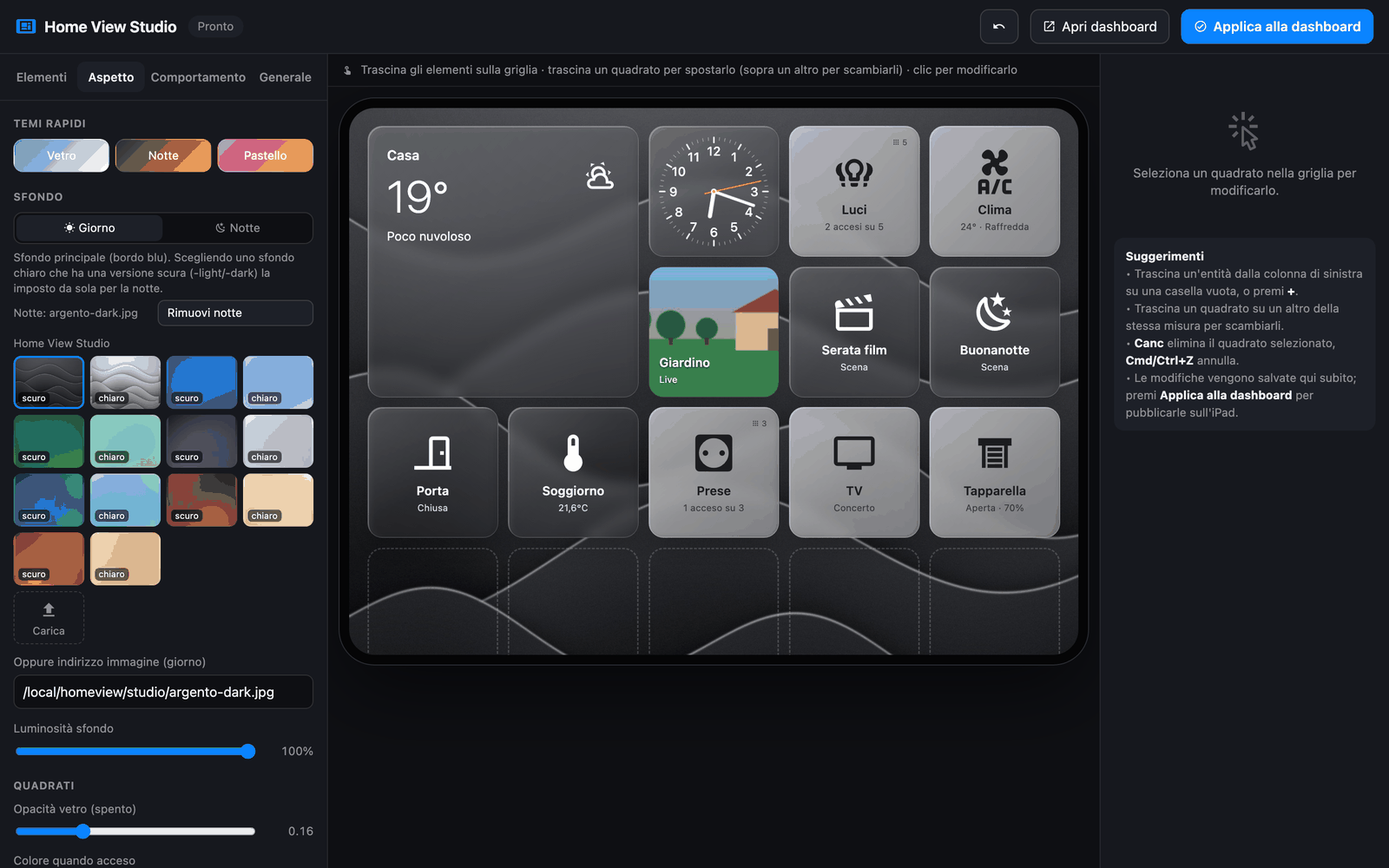
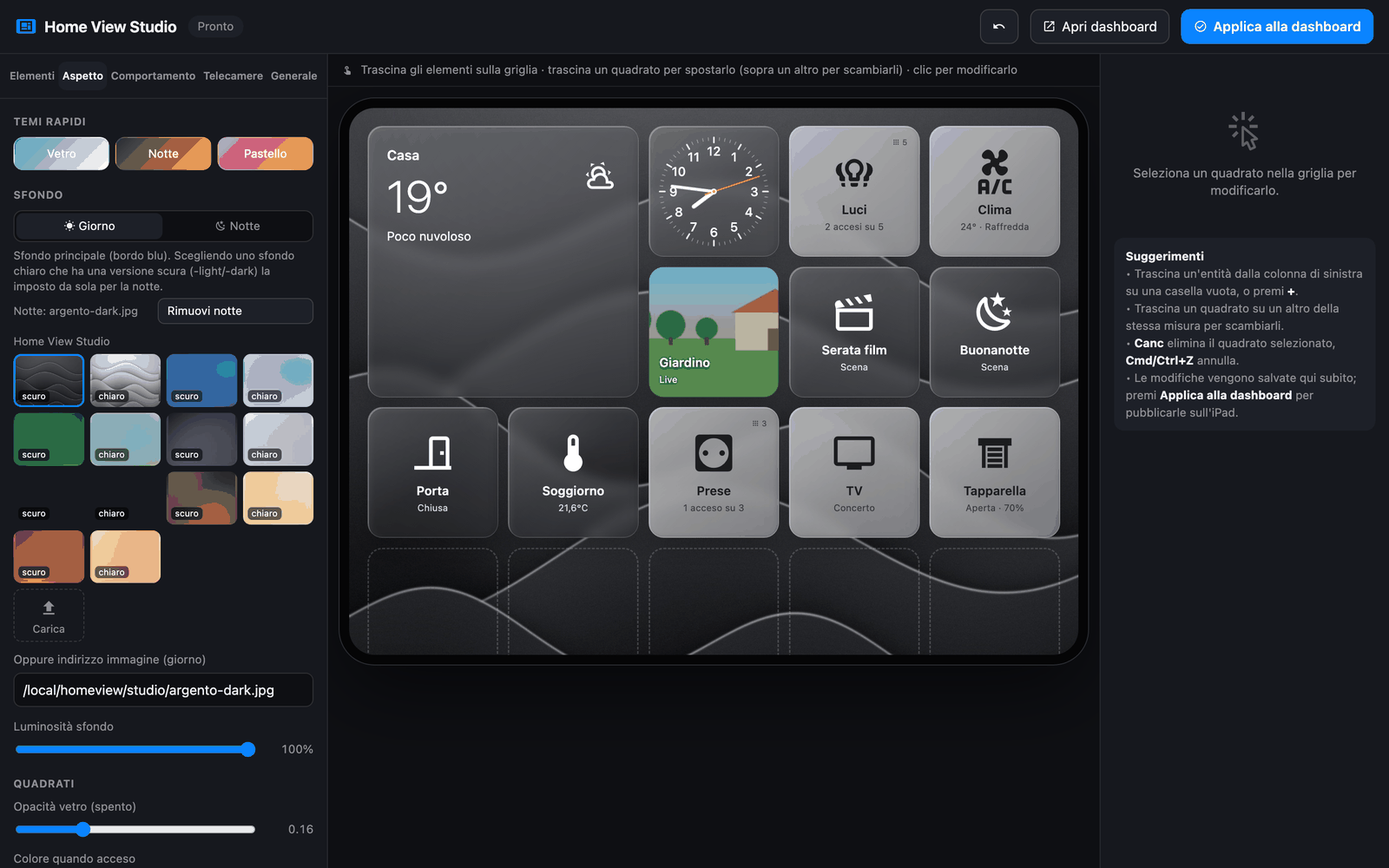
Scheda Telecamere nell'editor (1.7.0)

diff --git a/homeview_studio/app/www/index.html b/homeview_studio/app/www/index.html
@@ -33,7 +33,11 @@ header h1 i{font-size:22px;color:var(--acc)}
 aside{background:var(--panel);border-right:1px solid var(--line);display:flex;flex-direction:column;min-height:0}
 aside.right{border-right:0;border-left:1px solid var(--line)}
 .tabs{display:flex;gap:2px;padding:8px;border-bottom:1px solid var(--line)}
-.tab{flex:1;border:0;background:transparent;padding:7px 4px;border-radius:8px;cursor:pointer;color:var(--mut);font-size:12.5px;font-weight:550}
+.tab{flex:1 1 auto;border:0;background:transparent;padding:7px 3px;border-radius:8px;cursor:pointer;color:var(--mut);font-size:11px;font-weight:600;white-space:nowrap;letter-spacing:-.1px}
+.tabs{gap:0!important;padding:8px 6px!important}
+.main.nocam-insp{grid-template-columns:340px 1fr 0}
+.main.nocam-insp .right{display:none}
+.tabs{flex-wrap:wrap}
 .tab.on{background:var(--panel2);color:var(--txt)}
 .scroll{overflow:auto;padding:12px 14px 30px;flex:1;min-height:0}
 h3{font-size:11px;letter-spacing:.6px;text-transform:uppercase;color:var(--mut);margin:18px 0 8px;font-weight:650}
@@ -171,6 +175,7 @@ input[type=color]{width:36px;height:30px;padding:0;border:1px solid var(--line2)
         <button class="tab on" data-tab="items">Elementi</button>
         <button class="tab" data-tab="look">Aspetto</button>
         <button class="tab" data-tab="behavior">Comportamento</button>
+        <button class="tab" data-tab="cams">Telecamere</button>
         <button class="tab" data-tab="general">Generale</button>
       </div>
       <div class="scroll" id="panel"></div>
@@ -427,7 +432,38 @@ function tileHTML(t, i) {
   return {cls: (on ? 'on' : '') + (!e || e.state === 'unavailable' ? ' dim' : ''),
     html:`<i class="mdi mdi-${esc(icon)} ic" ${spin}></i><div class="nm" data-raw>${esc(t.name || (e ? e.name : t.entity))}</div>${label ? `<div class="lb">${esc(label)}</div>` : ''}`};
 }
+function camItems() {
+  const cc = L.cameras || (L.cameras = {});
+  if (!cc.items || !cc.items.length) cc.items = (L.sources.cameras || []).filter(Boolean).map(id => ({entity: id}));
+  return cc.items;
+}
+function renderCamBoard() {
+  const b = $('#board'), cc = L.cameras, items = camItems().filter(x => x.entity);
+  const W = $('#ipad').clientWidth || 1000, k = W / 1180, gap = (cc.gap ?? 12) * k, r = (cc.radius ?? 22) * k;
+  const n = items.length, H = $('#ipad').clientHeight || W * 0.75, pad = 14 * k;
+  let colsCss = '1fr', cells = [['c0']], rows = 1;
+  if (n > 1 && cc.layout === 'featured') {
+    const side = n - 1, sc = side <= 4 ? 1 : 2; rows = Math.ceil(side / sc); colsCss = '2fr ' + Array(sc).fill('1fr').join(' ');
+    let kk = 1; cells = []; for (let i = 0; i < rows; i++) { const row = ['c0']; for (let j = 0; j < sc; j++) { row.push(kk < n ? 'c' + kk : '.'); kk++; } cells.push(row); }
+  } else if (n > 1) {
+    const cols = Math.max(1, Math.min(+cc.columns || (n <= 4 ? 2 : 3), n)); rows = Math.ceil(n / cols); colsCss = `repeat(${cols}, minmax(0,1fr))`;
+    const flat = items.map((_, i) => 'c' + i).concat(Array(rows * cols - n).fill('.')); cells = []; for (let i = 0; i < rows; i++) cells.push(flat.slice(i * cols, (i + 1) * cols));
+  }
+  const rowH = (H - pad * 2 - gap * (rows - 1)) / rows;
+  Object.assign(b.style, {gridTemplateColumns: colsCss, gridTemplateAreas: cells.map(rw => '"' + rw.join(' ') + '"').join(' '), gridAutoRows: rowH + 'px', gap: gap + 'px', padding: pad + 'px', justifyContent: 'stretch', alignContent: 'center'});
+  b.innerHTML = n ? items.map((it, i) => {
+    const e = EM[it.entity], name = it.name || (e ? e.name : it.entity);
+    const featured = cc.layout === 'featured' && n > 1;
+    const sz = featured || n === 1 ? 'width:100%;height:100%' : `height:100%;max-width:100%;aspect-ratio:16/9;justify-self:center`;
+    return `<div style="grid-area:c${i};${sz};border-radius:${r}px;overflow:hidden;position:relative;background:#000">
+      ${e && e.picture ? `<img src="${esc(e.picture)}" style="width:100%;height:100%;object-fit:${it.fit || 'cover'};display:block" onerror="this.remove()">` : ''}
+      ${cc.show_names !== false ? `<div data-raw style="position:absolute;left:0;right:0;bottom:0;padding:${18 * k}px ${12 * k}px ${9 * k}px;font-weight:600;font-size:${16 * k}px;color:#fff;background:linear-gradient(to top,rgba(0,0,0,.55),transparent)">${esc(name)}</div>` : ''}</div>`;
+  }).join('') : '<div class="empty" style="grid-column:1/-1;color:#fff">Nessuna telecamera selezionata</div>';
+}
 function renderBoard() {
+  document.querySelector('.main').classList.toggle('nocam-insp', tab === 'cams');
+  if (tab === 'cams') { $('#board').style.gridTemplateAreas = ''; renderCamBoard(); const th0 = L.theme; $('#bgimg').style.backgroundImage = th0.background ? `url("${th0.background}")` : 'none'; return; }
+  $('#board').style.gridTemplateAreas = ''; $('#board').style.alignContent = 'start';
   const b = $('#board'), th = L.theme, cols = L.grid.columns;
   $('#bgimg').style.backgroundImage = th.background ? `url("${th.background}")` : 'none';
   $('#bgimg').style.opacity = (th.background_opacity ?? 100) / 100;
@@ -622,7 +658,7 @@ function renderInsp() {
 
 // ---------------------------------------------------------------- left panel
 document.querySelectorAll('.tab').forEach(b => b.onclick = () => {
-  document.querySelectorAll('.tab').forEach(x => x.classList.toggle('on', x === b)); tab = b.dataset.tab; renderPanel();
+  document.querySelectorAll('.tab').forEach(x => x.classList.toggle('on', x === b)); tab = b.dataset.tab; renderPanel(); renderBoard(); renderInsp();
 });
 function sw(path, title, sub) {
   const v = path.split('.').reduce((o, k) => o[k], L);
@@ -807,6 +843,37 @@ function renderPanel() {
     el.querySelectorAll('[data-fup]').forEach(b => b.onclick = () => fmv(+b.dataset.fup, -1));
     el.querySelectorAll('[data-fdown]').forEach(b => b.onclick = () => fmv(+b.dataset.fdown, 1));
   }
+  if (tab === 'cams') {
+    const cc = L.cameras || (L.cameras = {}); const items = camItems();
+    const camsAll = E.filter(e => e.domain === 'camera');
+    const ordered = [...items.filter(it => camsAll.some(c => c.entity_id === it.entity)).map(it => it.entity), ...camsAll.map(c => c.entity_id).filter(id => !items.some(it => it.entity === id))];
+    el.innerHTML = `<h3>Disposizione</h3>
+      <div class="field"><select class="in" data-p="cameras.layout">${opt('auto', 'Automatica (1 = schermo intero, 2–4 = 2 colonne, 5+ = 3 colonne)', cc.layout || 'auto')}${opt('grid', 'Griglia con colonne a scelta', cc.layout)}${opt('featured', 'Una grande + le altre di lato', cc.layout)}</select></div>
+      ${cc.layout === 'grid' ? `<div class="field"><label>Colonne</label><select class="in" data-p="cameras.columns">${[1, 2, 3, 4].map(n => opt(String(n), String(n), String(cc.columns || 2))).join('')}</select></div>` : ''}
+      <h3>Telecamere</h3>
+      <div class="count">Spunta quelle da mostrare, ordinale con le frecce (la prima è quella grande), rinominale e scegli come adattare l'immagine.</div>
+      ${ordered.map(id => { const c = EM[id]; const j = items.findIndex(it => it.entity === id); const it = items[j];
+        return `<div class="mem" style="grid-template-columns:24px 1fr auto"><input type="checkbox" data-cam="${esc(id)}" ${it ? 'checked' : ''}><div style="min-width:0"><div class="n" data-raw>${esc(c ? c.name : id)}</div><div class="s" data-raw>${esc(id)}${c ? ' · ' + esc(c.state) : ''}</div></div>
+          <div class="b">${it ? `<button data-cup="${j}" title="Su"><i class="mdi mdi-chevron-up"></i></button><button data-cdown="${j}" title="Giù"><i class="mdi mdi-chevron-down"></i></button>` : ''}</div></div>
+          ${it ? `<div class="row" style="margin:4px 0 8px 30px"><input class="in" data-cname="${j}" value="${esc(it.name || '')}" placeholder="${esc(c ? c.name : id)}"><select class="in" data-cfit="${j}" style="flex:0 0 120px">${opt('cover', 'Riempi', it.fit || 'cover')}${opt('contain', 'Intera', it.fit)}</select></div>` : ''}`; }).join('') || '<div class="count">Nessuna telecamera trovata</div>'}
+      <h3>Opzioni</h3>
+      ${sw('cameras.show_names', 'Mostra i nomi')}
+      <div class="field"><label>Al tocco</label><select class="in" data-p="cameras.tap">${opt('popup', 'Apri a schermo intero (diretta)', cc.tap || 'popup')}${opt('more-info', 'Apri dettagli', cc.tap)}${opt('none', 'Nessuna', cc.tap)}</select></div>
+      ${rng('cameras.refresh', 'Aggiorna le immagini ogni', 2, 60, 1, 's')}
+      ${rng('cameras.gap', 'Spazio tra le telecamere', 0, 40, 1, 'px')}
+      ${rng('cameras.radius', 'Arrotondamento angoli', 0, 50, 1, 'px')}`;
+    bindPaths(el);
+    el.querySelectorAll('[data-p="cameras.layout"],[data-p="cameras.columns"]').forEach(s => s.addEventListener('change', () => { if (s.dataset.p === 'cameras.columns') L.cameras.columns = +s.value; renderPanel(); renderBoard(); }));
+    el.querySelectorAll('[data-cam]').forEach(c => c.onchange = () => {
+      edit(() => { const id = c.dataset.cam; let cur = camItems().filter(x => x.entity !== id); if (c.checked) cur.push({entity: id}); if (!cur.length) cur = [{entity: id}]; L.cameras.items = cur; });
+      renderPanel();
+    });
+    const cmv = (j, dd) => { edit(() => { const a = L.cameras.items; const k = j + dd; if (k < 0 || k >= a.length) return; [a[j], a[k]] = [a[k], a[j]]; }); renderPanel(); };
+    el.querySelectorAll('[data-cup]').forEach(b => b.onclick = () => cmv(+b.dataset.cup, -1));
+    el.querySelectorAll('[data-cdown]').forEach(b => b.onclick = () => cmv(+b.dataset.cdown, 1));
+    el.querySelectorAll('[data-cname]').forEach(i => i.addEventListener('input', () => edit(() => { const it = L.cameras.items[+i.dataset.cname]; if (i.value.trim()) it.name = i.value.trim(); else delete it.name; })));
+    el.querySelectorAll('[data-cfit]').forEach(s => s.addEventListener('change', () => edit(() => { L.cameras.items[+s.dataset.cfit].fit = s.value; })));
+  }
   if (tab === 'general') {
     const cals = E.filter(e => e.domain === 'calendar');
     const chosen = new Map((L.sources.calendars || []).map(c => [c.entity, c]));
@@ -821,25 +888,11 @@ function renderPanel() {
       <div class="field"><label>Evento campanello (apre la telecamera quando suonano)</label><select class="in" data-p="sources.doorbell"><option value="">Nessuno</option>${entOptions(e => e.domain === 'event', L.sources.doorbell)}</select></div>
       <div class="lbl" style="margin-bottom:4px">Calendari</div>
       ${cals.length ? cals.map(c => { const ch = chosen.get(c.entity_id); return `<div class="calrow"><input type="checkbox" data-cal="${esc(c.entity_id)}" ${ch ? 'checked' : ''}><span data-raw>${esc(c.name)}</span><input type="color" data-calc="${esc(c.entity_id)}" value="${esc(ch ? ch.color : '#30D158')}"></div>`; }).join('') : '<div class="count">Nessun calendario trovato</div>'}
-      <h3>Pagina Telecamere</h3>
-      <div class="count">Scegli quali telecamere mostrare e in che ordine (1 = schermo intero, 2–4 = griglia 2×2, 5+ = griglia 3 colonne).</div>
-      ${(() => { const sel2 = L.sources.cameras || []; const camsAll = E.filter(e => e.domain === 'camera');
-        const ordered = [...sel2.filter(id => camsAll.some(c => c.entity_id === id)), ...camsAll.map(c => c.entity_id).filter(id => !sel2.includes(id))];
-        return ordered.map(id => { const c = EM[id]; const on = sel2.includes(id); const j = sel2.indexOf(id);
-          return `<div class="mem"><input type="checkbox" data-cam="${esc(id)}" ${on ? 'checked' : ''}><div style="min-width:0" data-raw><div class="n">${esc(c ? c.name : id)}</div><div class="s">${esc(id)}${c ? ' · ' + esc(c.state) : ''}</div></div>
-            <div class="b">${on ? `<button data-cup="${j}"><i class="mdi mdi-chevron-up"></i></button><button data-cdown="${j}"><i class="mdi mdi-chevron-down"></i></button>` : ''}</div></div>`; }).join('') || '<div class="count">Nessuna telecamera trovata</div>'; })()}
       <h3>Ripristino</h3>
       <div class="hint">Prima di ogni "Applica" salvo una copia della dashboard. Puoi tornare a una versione precedente.</div>
       <div style="margin-top:8px">${BACKUPS.slice(0, 8).map(b => `<div class="bk"><span>${esc(b.replace(/^.*-(\d{4})(\d\d)(\d\d)-(\d\d)(\d\d)(\d\d)\.json$/, '$3/$2/$1 $4:$5'))}</span><button class="btn sm" data-restore="${esc(b)}">Ripristina</button></div>`).join('') || '<div class="count">Nessuna copia ancora</div>'}</div>
       <div style="margin-top:14px"><button class="btn danger" id="reset"><i class="mdi mdi-restore"></i>Riporta layout iniziale</button></div>`;
     bindPaths(el);
-    el.querySelectorAll('[data-cam]').forEach(c => c.onchange = () => {
-      edit(() => { const cur = (L.sources.cameras || []).filter(x => x !== c.dataset.cam); if (c.checked) cur.push(c.dataset.cam); L.sources.cameras = cur.length ? cur : [c.dataset.cam]; });
-      renderPanel();
-    });
-    const cmv = (j, dd) => { edit(() => { const a = L.sources.cameras; const k = j + dd; if (k < 0 || k >= a.length) return; [a[j], a[k]] = [a[k], a[j]]; }); renderPanel(); };
-    el.querySelectorAll('[data-cup]').forEach(b => b.onclick = () => cmv(+b.dataset.cup, -1));
-    el.querySelectorAll('[data-cdown]').forEach(b => b.onclick = () => cmv(+b.dataset.cdown, 1));
     const syncCals = () => edit(() => {
       L.sources.calendars = [...el.querySelectorAll('[data-cal]')].filter(c => c.checked).map(c => {
         const id = c.dataset.cal; return {entity: id, name: (EM[id] || {}).name || id, color: el.querySelector(`[data-calc="${id}"]`).value};

diff --git a/homeview_studio/app/www/i18n.js b/homeview_studio/app/www/i18n.js
@@ -84,6 +84,13 @@ const I18N_EN = {
   'Media → Media locali → Photo Slideshow. Se è vuota uso i tuoi sfondi': 'Media → Local media → Photo Slideshow. If empty, your wallpapers are used',
   'Cambia foto ogni (secondi)': 'Change photo every (seconds)', 'Sensore di movimento per il quadrante Flusso': 'Motion sensor for the Flow face',
   'Modalità notte': 'Night mode', 'Salvaschermo più scuro e caldo di notte': 'Darker, warmer screensaver at night', 'Dalle': 'From', 'Alle': 'To', 'Luminosità di notte': 'Night brightness',
+  // cameras tab
+  'Disposizione': 'Layout', 'Automatica (1 = schermo intero, 2–4 = 2 colonne, 5+ = 3 colonne)': 'Automatic (1 = full screen, 2–4 = 2 columns, 5+ = 3 columns)',
+  'Griglia con colonne a scelta': 'Grid with chosen columns', 'Una grande + le altre di lato': 'One large + the others on the side',
+  "Spunta quelle da mostrare, ordinale con le frecce (la prima è quella grande), rinominale e scegli come adattare l'immagine.": 'Tick the ones to show, order them with the arrows (the first is the large one), rename them and choose how the image fits.',
+  'Riempi': 'Fill', 'Intera': 'Fit', 'Opzioni': 'Options', 'Mostra i nomi': 'Show names', 'Al tocco': 'On tap',
+  'Apri a schermo intero (diretta)': 'Open full screen (live)', 'Aggiorna le immagini ogni': 'Refresh images every',
+  'Spazio tra le telecamere': 'Space between cameras', 'Nessuna telecamera selezionata': 'No camera selected',
   // general
   'Dashboard': 'Dashboard', 'Titolo': 'Title', 'Indirizzo (deve contenere un trattino)': 'Address (must contain a hyphen)', 'Sorgenti': 'Sources',
   'Telecamera principale (pagina Telecamere e campanello)': 'Main camera (Cameras page and doorbell)',

diff --git a/homeview_studio/app/generator.py b/homeview_studio/app/generator.py
@@ -213,6 +213,8 @@ DEFAULT_LAYOUT = {
         "show_widgets": True,
         "show_cameras": True,
     },
+    "cameras": {"items": [], "layout": "auto", "columns": 0, "show_names": True, "tap": "popup",
+                "refresh": 10, "gap": 12, "radius": 22},
     "sources": {
         "weather": BASE_WEATHER,
         "calendars": [],
@@ -348,7 +350,8 @@ def group_popup(t, cal_popup, beh, info):
     return p
 
 
-def build_cameras(d, cams, info):
+def build_cameras(d, cc, info):
+    """Cameras view. cc = {items:[{entity,name,fit}], layout, columns, show_names, tap, refresh, gap, radius}."""
     camv = find_view(d, "cameras")
     if not camv:
         return
@@ -356,44 +359,92 @@ def build_cameras(d, cams, info):
     grid = cstack[0]
     base_c1 = grid["custom_fields"]["c1"]["card"]
     base_pop = next((c for c in cstack if c.get("hash") == "#cam1"), None)
-    n = len(cams)
-    cols = 1 if n == 1 else 2 if n <= 4 else 3
-    rows = -(-n // cols)
-    gap = 12
+    items = cc["items"]
+    n = len(items)
+    gap = int(cc.get("gap", 12))
+    radius = int(cc.get("radius", 22))
+    refresh = max(2, int(cc.get("refresh", 10)))
+    tpl = d["button_card_templates"].get("hw_cam_grid_tile")
+    if tpl:
+        tpl["update_timer"] = refresh * 1000
+        tpl["entity_picture"] = tpl["entity_picture"].replace("Math.floor(Date.now() / 30000)", f"Math.floor(Date.now() / {refresh * 1000})")
+        set_style(tpl["styles"]["card"], "border-radius", f"{radius}px")
+    layout = cc.get("layout", "auto")
+    H = "(100vh - 28px)"
     cf, cfs, pops = {}, {}, []
-    for i, ent in enumerate(cams):
+    if n == 1:
+        cols_css, rows, cells = "1fr", 1, [["c1"]]
+    elif layout == "featured":
+        side = n - 1
+        side_cols = 1 if side <= 4 else 2
+        side_rows = -(-side // side_cols)
+        cols_css = "2fr " + " ".join(["1fr"] * side_cols)
+        rows = side_rows
+        cells = []
+        k = 2
+        for r in range(side_rows):
+            row = ["c1"]
+            for _ in range(side_cols):
+                row.append(f"c{k}" if k <= n else ".")
+                k += 1
+            cells.append(row)
+    else:
+        cols = int(cc.get("columns") or 0) or (1 if n == 1 else 2 if n <= 4 else 3)
+        cols = max(1, min(cols, n))
+        rows = -(-n // cols)
+        cols_css = f"repeat({cols}, minmax(0, 1fr))"
+        flat = [f"c{i + 1}" for i in range(n)] + ["."] * (rows * cols - n)
+        cells = [flat[r * cols:(r + 1) * cols] for r in range(rows)]
+    for i, it in enumerate(items):
         key = f"c{i + 1}"
+        ent = it["entity"]
         c = copy.deepcopy(base_c1)
         c["entity"] = ent
-        c["name"] = (info or {}).get(ent, {}).get("name") or ent.split(".", 1)[1].replace("_", " ").title()
-        c["tap_action"] = {"action": "navigate", "navigation_path": f"#cam{i + 1}", "haptic": "light"}
-        if n > 1:
-            h = f"calc((100vh - 28px - {(rows - 1) * gap}px) / {rows})"
+        c["name"] = it.get("name") or (info or {}).get(ent, {}).get("name") or ent.split(".", 1)[1].replace("_", " ").title()
+        c["show_name"] = bool(cc.get("show_names", True))
+        tap = cc.get("tap", "popup")
+        c["tap_action"] = ({"action": "navigate", "navigation_path": f"#cam{i + 1}", "haptic": "light"} if tap == "popup"
+                           else {"action": tap})
+        fit = it.get("fit") or "cover"
+        c["styles"]["entity_picture"] = [{"width": "100%"}, {"height": "100%"}, {"object-fit": fit}]
+        if n == 1:
+            pass  # full-screen 16:9 sizing from the base card
+        elif layout == "featured":
+            if i == 0:
+                c["styles"]["card"] = [{"width": "100%"}, {"height": f"calc{H}"}, {"aspect-ratio": "auto"}, {"max-width": "none"}]
+            else:
+                c["styles"]["card"] = [{"width": "100%"}, {"height": f"calc(({H} - {(rows - 1) * gap}px) / {rows})"},
+                                       {"aspect-ratio": "auto"}, {"max-width": "none"}]
+        else:
+            h = f"calc(({H} - {(rows - 1) * gap}px) / {rows})"
             c["styles"]["card"] = [{"width": f"min(100%, calc({h} * 1.7778))"}, {"height": "auto"},
                                    {"aspect-ratio": "16 / 9"}, {"max-width": "none"}]
+        if fit == "contain":
+            c["styles"]["card"].append({"background": "#000"})
         cf[key] = {"card": c}
         cfs[key] = [{"justify-self": "center"}, {"align-self": "center"}, {"min-width": "0"}, {"width": "100%"},
                     {"display": "flex"}, {"justify-content": "center"}]
-        if base_pop:
+        if base_pop and tap == "popup":
             p = copy.deepcopy(base_pop)
             p["hash"] = f"#cam{i + 1}"
             p["name"] = c["name"]
 
-            def setc(cards):
+            def fix(cards):
                 for x in cards:
                     if x.get("type") == "picture-entity":
                         x["entity"] = ent
+                    if x.get("template") == "hw_pop_btn" and x.get("name") == "Close":
+                        x["name"], x["label"] = "Chiudi", "Telecamere"
                     if "cards" in x:
-                        setc(x["cards"])
-            setc(p.get("cards", []))
+                        fix(x["cards"])
+            fix(p.get("cards", []))
             pops.append(p)
-    cells = [f"c{i + 1}" for i in range(n)] + ["."] * (rows * cols - n)
-    areas = " ".join('"' + " ".join(cells[r * cols:(r + 1) * cols]) + '"' for r in range(rows))
+    areas = " ".join('"' + " ".join(r) + '"' for r in cells)
     grid["custom_fields"] = cf
     grid["styles"]["custom_fields"] = cfs
     grid["styles"]["grid"] = [g for g in grid["styles"]["grid"]
                               if not any(k in g for k in ("grid-template-areas", "grid-template-columns", "grid-template-rows", "gap"))]
-    grid["styles"]["grid"] += [{"grid-template-areas": areas}, {"grid-template-columns": f"repeat({cols}, minmax(0, 1fr))"},
+    grid["styles"]["grid"] += [{"grid-template-areas": areas}, {"grid-template-columns": cols_css},
                                {"grid-template-rows": " ".join(["auto"] * rows)}, {"gap": f"{gap}px"}]
     camv["cards"][0]["cards"] = [grid] + pops
 
@@ -435,7 +486,7 @@ EN_WORDS = {  # quoted tokens: 'x' in JS and "x" as JSON values
     "Allarme!": "Triggered!", "Tocca per attivare": "Tap to activate", "Entità non trovata": "Entity not found",
     "Vuoto": "Empty", "Tutto spento": "All off", "Tutti accesi": "All on",
     "Accendi tutto": "Turn all on", "Spegni tutto": "Turn all off", "Gruppo vuoto": "Empty group", "Gruppo": "Group",
-    "Scena": "Scene", "Meteo": "Weather", "Calendario": "Calendar", "Campanello": "Doorbell", "Telecamera": "Camera",
+    "Chiudi": "Close", "Telecamere": "Cameras", "Scena": "Scene", "Meteo": "Weather", "Calendario": "Calendar", "Campanello": "Doorbell", "Telecamera": "Camera",
 }
 
 
@@ -636,8 +687,16 @@ def generate(base, layout, info=None, lang=None, wallpapers=None):
                                  "background:url(\"${u}\") center / cover no-repeat;}`; ]]]")
 
     # ---------- cameras view ----------
-    cams = [c for c in (src.get("cameras") or []) if c] or [src.get("camera") or BASE_CAMERA]
-    build_cameras(d, cams, info)
+    cc = dict(L.get("cameras") or {})
+    items = [dict(x) for x in (cc.get("items") or []) if x.get("entity")]
+    if not items:  # older layouts: plain list in sources.cameras
+        items = [{"entity": c} for c in (src.get("cameras") or []) if c]
+    if info:
+        items = [x for x in items if x["entity"] in info]
+    if not items:
+        items = [{"entity": src.get("camera") or BASE_CAMERA}]
+    cc["items"] = items
+    build_cameras(d, cc, info)
 
     # ---------- behaviour ----------
     wp = d.setdefault("wallpanel", {})

diff --git a/README.it.md b/README.it.md
@@ -44,7 +44,7 @@ Home View Studio è un add-on (app) per Home Assistant. Mette a disposizione:
 | **Aspetto** | Temi rapidi, colore dei quadrati accesi, opacità e sfocatura del vetro, arrotondamento, ombre, dimensioni di testi e icone, numero di colonne (da 3 a 8). |
 | **Quadranti del salvaschermo** | Sei quadranti originali che si alternano quando l'iPad è inattivo: Orologio, Foto (la tua cartella di foto o gli sfondi), Flusso (colori in movimento che si accendono con un sensore di movimento), Meridiana (numeri che sfumano con l'ora), Meteo e Calendario. La modalità notte scurisce e scalda lo schermo. |
 | **Comportamento** | Salvaschermo (WallPanel), schermo intero, modalità kiosk, scorrimento tra le pagine anche col mouse, animazioni, pagine visibili. |
-| **Telecamere** | Scegli quali telecamere mostrare e in che ordine. La griglia si adatta da sola: 1, 2×2 o 3 colonne. |
+| **Telecamere** | Una scheda dedicata con anteprima: scegli quali telecamere mostrare e in che ordine, rinominale, scegli se l'immagine riempie o è intera e la disposizione (automatica, griglia da 1 a 4 colonne, oppure una grande con le altre di lato). In più nomi sì/no, azione al tocco (diretta a schermo intero, dettagli o niente), frequenza di aggiornamento, spazi e arrotondamento. |
 | **Lingua** | Interfaccia e dashboard in **italiano** o **inglese**, in automatico come Home Assistant oppure a scelta in *Generale → Lingua*. |
 | **Sicurezza** | Prima di ogni pubblicazione viene salvata una copia della dashboard, ripristinabile dall'editor. |
 
@@ -55,7 +55,9 @@ Home View Studio è un add-on (app) per Home Assistant. Mette a disposizione:
 | ![Elementi](docs/screenshots/editor-elementi.png) | ![Gruppo](docs/screenshots/editor-gruppo.png) |
 | **Aspetto e sfondi** | **Orologi (Home, Widget, salvaschermo)** |
 | ![Aspetto](docs/screenshots/editor-aspetto.png) | ![Orologi](docs/screenshots/editor-orologi.png) |
-| **Comportamento** | **Generale: sorgenti, telecamere, ripristino** |
+| **Quadranti del salvaschermo** | **Pagina Telecamere** |
+| ![Salvaschermo](docs/screenshots/editor-salvaschermo.png) | ![Telecamere](docs/screenshots/editor-telecamere.png) |
+| **Comportamento** | **Generale: sorgenti, lingua, ripristino** |
 | ![Comportamento](docs/screenshots/editor-comportamento.png) | ![Generale](docs/screenshots/editor-generale.png) |
 
 ![Anteprima della Home](docs/screenshots/anteprima-home.png)

diff --git a/README.md b/README.md
@@ -46,7 +46,7 @@ Home View Studio is an add-on (app) for Home Assistant. It provides:
 | **Appearance** | Quick themes, color of tiles that are on, glass opacity and blur, corner radius, shadows, text and icon sizes, number of columns (3 to 8). |
 | **Screensaver faces** | Six original faces that rotate while the iPad is idle: Clock, Photos (your photo folder or wallpapers), Flow (moving colors that brighten when a motion sensor triggers), Meridian (numerals fading with the time), Weather and Calendar. Night mode dims and warms the screen. |
 | **Behavior** | Screensaver (WallPanel), full screen, kiosk mode, swiping between pages (mouse too), animations, which pages are shown. |
-| **Cameras** | Choose which cameras to show and in what order. The grid adapts automatically: 1, 2×2 or 3 columns. |
+| **Cameras** | A dedicated tab with a live preview: choose which cameras to show and their order, rename them, fill or fit each image, and pick the layout (automatic, grid with 1–4 columns, or one large camera with the others on the side). Also names on/off, tap action (full-screen live popup, details or nothing), refresh rate, spacing and corner radius. |
 | **Language** | Editor and dashboard in **English** or **Italian**, automatic (same as Home Assistant) or chosen in *General → Language*. |
 | **Safety** | A copy of the dashboard is saved before every publish, and you can restore it from the editor. |
 
@@ -57,7 +57,9 @@ Home View Studio is an add-on (app) for Home Assistant. It provides:
 | ![Items](docs/screenshots/en/editor-elementi.png) | ![Group](docs/screenshots/en/editor-gruppo.png) |
 | **Appearance and wallpapers** | **Clocks (Home, Widgets, screensaver)** |
 | ![Appearance](docs/screenshots/en/editor-aspetto.png) | ![Clocks](docs/screenshots/en/editor-orologi.png) |
-| **Behavior** | **General: sources, cameras, restore** |
+| **Screensaver faces** | **Cameras page** |
+| ![Screensaver](docs/screenshots/en/editor-salvaschermo.png) | ![Cameras](docs/screenshots/en/editor-telecamere.png) |
+| **Behavior** | **General: sources, language, restore** |
 | ![Behavior](docs/screenshots/en/editor-comportamento.png) | ![General](docs/screenshots/en/editor-generale.png) |
 
 ![Home preview](docs/screenshots/en/anteprima-home.png)

diff --git a/homeview_studio/CHANGELOG.md b/homeview_studio/CHANGELOG.md
@@ -1,5 +1,9 @@
 # Changelog
 
+## 1.7.0
+- New Cameras tab: per-camera names and fit, order, layouts (auto, grid 1–4 columns, featured), names, tap action, refresh, spacing, radius, live preview.
+- Nuova scheda Telecamere: nomi e adattamento per telecamera, ordine, disposizioni (automatica, griglia 1–4 colonne, una grande), nomi, azione al tocco, aggiornamento, spazi, arrotondamento, anteprima.
+
 ## 1.6.0
 - Screensaver faces: Clock, Photos, Flow (reacts to a motion sensor), Meridian, Weather, Calendar; rotation, live previews and night mode.
 - Quadranti del salvaschermo: Orologio, Foto, Flusso (reagisce a un sensore di movimento), Meridiana, Meteo, Calendario; rotazione, anteprime e modalità notte.
